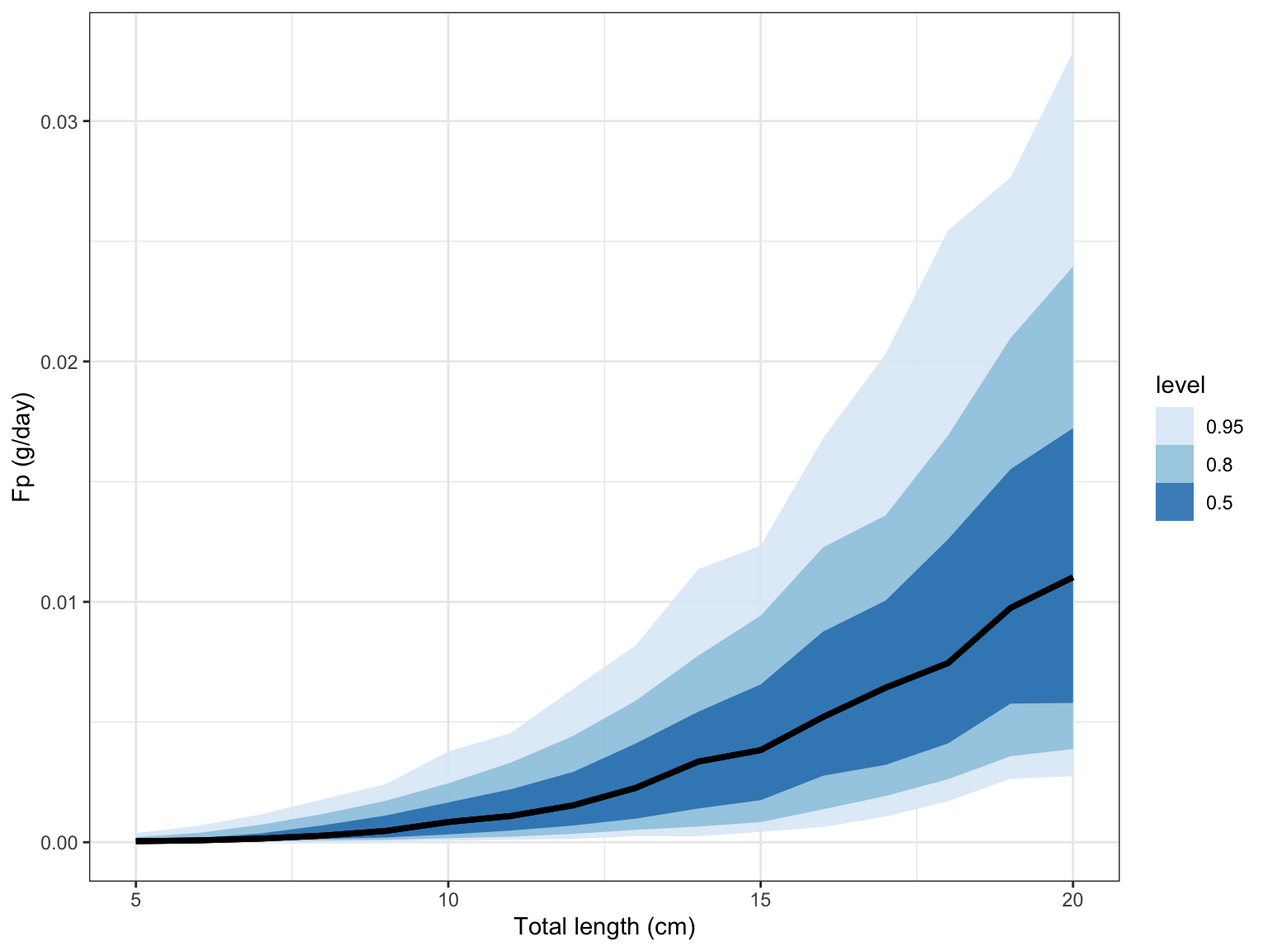
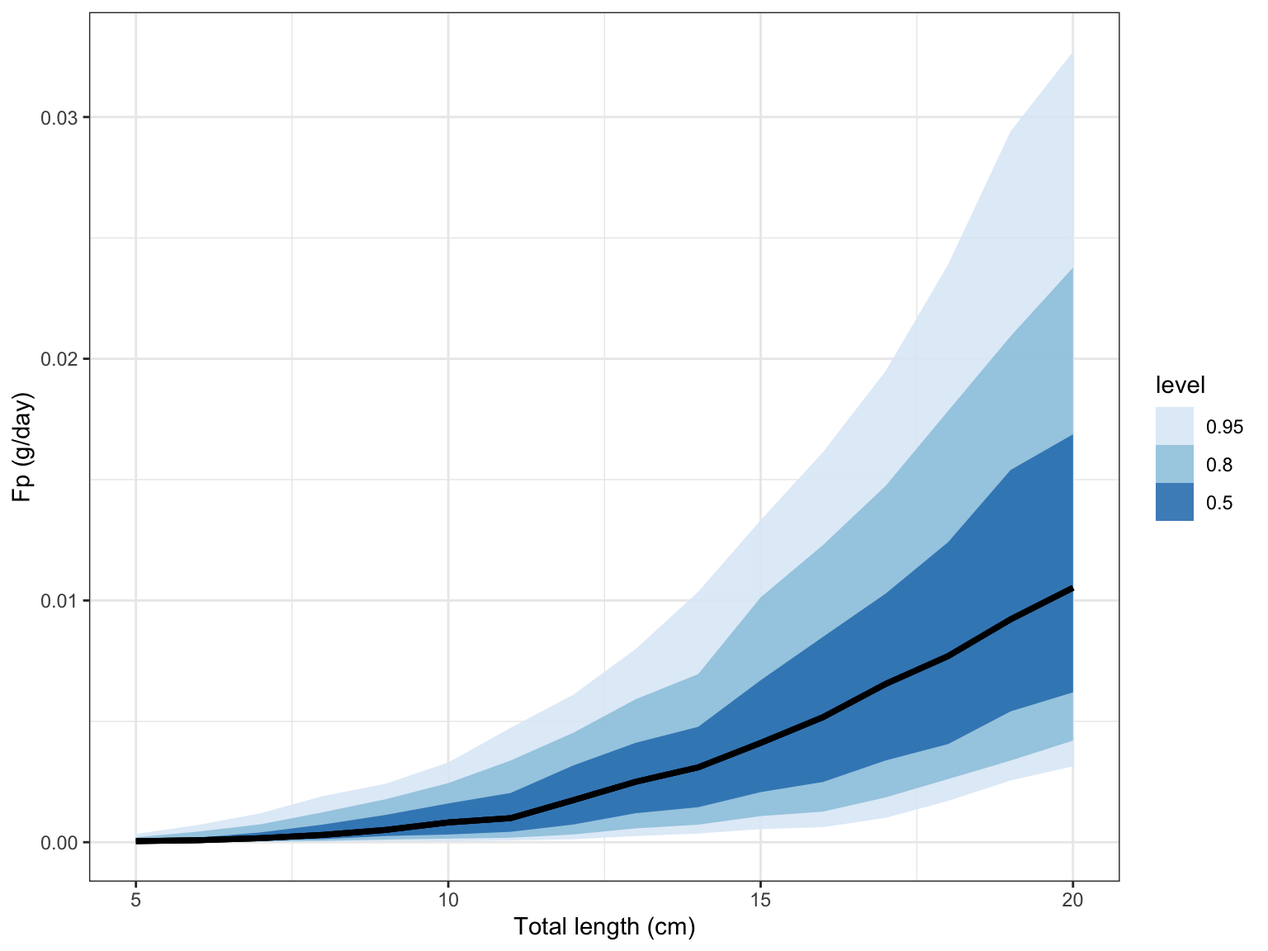
Built site for fishflux: 0.0.1@7be1ca2

diff --git a/articles/intro_to_fishflux.html b/articles/intro_to_fishflux.html
@@ -82,7 +82,7 @@
       <h1 data-toc-skip>Intro to fishflux</h1>
                         <h4 class="author">Nina M. D. Schiettekatte</h4>
             
-            <h4 class="date">2020-06-29</h4>
+            <h4 class="date">2020-06-30</h4>
       
       <small class="dont-index">Source: <a href="https://github.com/nschiett/fishflux/blob/master/vignettes/intro_to_fishflux.Rmd"><code>vignettes/intro_to_fishflux.Rmd</code></a></small>
       <div class="hidden name"><code>intro_to_fishflux.Rmd</code></div>
@@ -411,7 +411,7 @@ Elemental stoichiometry of diet
 <span class="co">#&gt;            species    t0 Linf     k     asp troph   lwa_m      lwa_sd lwb_m</span>
 <span class="co">#&gt; 1 Zebrasoma scopas -0.49 13.3 0.425 2.02091     2 0.02455 0.002627551  2.98</span>
 <span class="co">#&gt;      lwb_sd     mdw_m        f0_m        f0_sd alpha_m   alpha_sd</span>
-<span class="co">#&gt; 1 0.0255102 0.2504833 0.001517989 3.140677e-10    0.77 0.05286288</span>
+<span class="co">#&gt; 1 0.0255102 0.2504833 0.001517989 3.354668e-10    0.77 0.05286288</span>
 </pre></div>
 
 <p>All other parameters have to be provided by the user. For more information on how to acquire these parameters, take a look at (“this paper” add reference to methods paper).</p>
@@ -432,56 +432,56 @@ Elemental stoichiometry of diet
 <div class="sourceCode" id="cb10"><pre class="downlit">
 <span class="kw">fishflux</span>::<span class="fu"><a href="../reference/extract.html">extract</a></span>(<span class="kw">model</span>, <span class="fu"><a href="https://rdrr.io/r/base/c.html">c</a></span>(<span class="st">"Fn"</span>,<span class="st">"Fp"</span>))
 <span class="co">#&gt;    TL      Fn_mean    Fn_median        Fn_sd      Fn_2.5%    Fn_97.5%</span>
-<span class="co">#&gt; 1   5 0.0008586527 0.0008093855 0.0003957789 0.0002520632 0.001744605</span>
-<span class="co">#&gt; 2   6 0.0012936976 0.0012260145 0.0006045254 0.0003204334 0.002651616</span>
-<span class="co">#&gt; 3   7 0.0018687635 0.0017555176 0.0008831807 0.0004508196 0.003878516</span>
-<span class="co">#&gt; 4   8 0.0024862333 0.0022416429 0.0012266932 0.0005926827 0.005225779</span>
-<span class="co">#&gt; 5   9 0.0033452911 0.0030416284 0.0016568626 0.0009411860 0.007094310</span>
-<span class="co">#&gt; 6  10 0.0046037842 0.0041840842 0.0024880342 0.0011257021 0.011053858</span>
-<span class="co">#&gt; 7  11 0.0056588005 0.0048897570 0.0032234506 0.0013884030 0.013137325</span>
-<span class="co">#&gt; 8  12 0.0069331525 0.0060804579 0.0041527314 0.0016101754 0.017289560</span>
-<span class="co">#&gt; 9  13 0.0089393030 0.0079089833 0.0057658943 0.0013588169 0.022647608</span>
-<span class="co">#&gt; 10 14 0.0115946392 0.0103228784 0.0073644004 0.0016212968 0.029892933</span>
-<span class="co">#&gt; 11 15 0.0130959381 0.0117027107 0.0082845762 0.0025182443 0.032087359</span>
-<span class="co">#&gt; 12 16 0.0171097388 0.0149261703 0.0109178909 0.0030723634 0.042837954</span>
-<span class="co">#&gt; 13 17 0.0194643016 0.0172720203 0.0128054698 0.0037103942 0.052467798</span>
-<span class="co">#&gt; 14 18 0.0232282368 0.0195007529 0.0157658356 0.0051293467 0.063116080</span>
-<span class="co">#&gt; 15 19 0.0285082616 0.0247662637 0.0174214532 0.0066437204 0.068252871</span>
-<span class="co">#&gt; 16 20 0.0317043357 0.0277160130 0.0207875970 0.0071413541 0.082881025</span>
+<span class="co">#&gt; 1   5 0.0008934123 0.0008562569 0.0004373110 0.0001925697 0.001879021</span>
+<span class="co">#&gt; 2   6 0.0012960573 0.0012171678 0.0006066701 0.0003591948 0.002709354</span>
+<span class="co">#&gt; 3   7 0.0018519135 0.0017601635 0.0008861854 0.0004191072 0.003877703</span>
+<span class="co">#&gt; 4   8 0.0026167697 0.0024522324 0.0012629534 0.0007365773 0.005631344</span>
+<span class="co">#&gt; 5   9 0.0033658257 0.0029902521 0.0016833614 0.0009232591 0.007494898</span>
+<span class="co">#&gt; 6  10 0.0044517986 0.0040993209 0.0022754809 0.0011793277 0.009976794</span>
+<span class="co">#&gt; 7  11 0.0054826470 0.0047811586 0.0030896539 0.0012482407 0.013251244</span>
+<span class="co">#&gt; 8  12 0.0074136915 0.0064343480 0.0041512799 0.0019208705 0.016831653</span>
+<span class="co">#&gt; 9  13 0.0091276691 0.0081243632 0.0053644421 0.0020549299 0.022353508</span>
+<span class="co">#&gt; 10 14 0.0107490621 0.0095136696 0.0065475269 0.0024891701 0.027066248</span>
+<span class="co">#&gt; 11 15 0.0137423316 0.0118213548 0.0085838659 0.0029378106 0.034126092</span>
+<span class="co">#&gt; 12 16 0.0164927887 0.0140755506 0.0107322414 0.0026621793 0.041996480</span>
+<span class="co">#&gt; 13 17 0.0199511426 0.0176978101 0.0128276262 0.0035045117 0.049643058</span>
+<span class="co">#&gt; 14 18 0.0234228145 0.0201611079 0.0155073586 0.0051791077 0.060904336</span>
+<span class="co">#&gt; 15 19 0.0276894226 0.0230786464 0.0180220551 0.0062480545 0.072005751</span>
+<span class="co">#&gt; 16 20 0.0316776334 0.0270522813 0.0209769457 0.0080240501 0.078937725</span>
 <span class="co">#&gt;          Fn_25%      Fn_75%      Fp_mean    Fp_median        Fp_sd      Fp_2.5%</span>
-<span class="co">#&gt; 1  0.0005617763 0.001082988 7.985235e-05 4.151861e-05 0.0000998671 3.505317e-06</span>
-<span class="co">#&gt; 2  0.0008641242 0.001606701 1.473972e-04 7.754849e-05 0.0001745575 4.036777e-06</span>
-<span class="co">#&gt; 3  0.0012522607 0.002372336 2.817223e-04 1.520503e-04 0.0003184647 6.874997e-06</span>
-<span class="co">#&gt; 4  0.0016883645 0.003149538 4.872610e-04 2.758423e-04 0.0004907718 2.977650e-05</span>
-<span class="co">#&gt; 5  0.0020579564 0.004395476 7.319562e-04 4.706272e-04 0.0006926637 4.095726e-05</span>
-<span class="co">#&gt; 6  0.0028380792 0.005808638 1.130234e-03 8.414204e-04 0.0010074100 6.664717e-05</span>
-<span class="co">#&gt; 7  0.0032603808 0.007301402 1.499953e-03 1.091785e-03 0.0013005555 1.020162e-04</span>
-<span class="co">#&gt; 8  0.0038822114 0.008985446 2.003024e-03 1.535890e-03 0.0016958664 1.371406e-04</span>
-<span class="co">#&gt; 9  0.0045200360 0.011912889 2.824139e-03 2.260982e-03 0.0023182125 2.542141e-04</span>
-<span class="co">#&gt; 10 0.0057996777 0.015781621 3.858254e-03 3.352654e-03 0.0030066937 2.418876e-04</span>
-<span class="co">#&gt; 11 0.0061403276 0.018154267 4.551358e-03 3.831049e-03 0.0033330994 4.323192e-04</span>
-<span class="co">#&gt; 12 0.0084753936 0.023269703 6.202595e-03 5.209700e-03 0.0043499073 6.335925e-04</span>
-<span class="co">#&gt; 13 0.0094405071 0.026454470 7.316796e-03 6.428553e-03 0.0051493027 1.068191e-03</span>
-<span class="co">#&gt; 14 0.0110795298 0.032170707 9.017564e-03 7.454328e-03 0.0063556862 1.705746e-03</span>
-<span class="co">#&gt; 15 0.0145608757 0.040003221 1.132870e-02 9.747484e-03 0.0069487610 2.640174e-03</span>
-<span class="co">#&gt; 16 0.0146456252 0.042640060 1.264117e-02 1.102178e-02 0.0083140199 2.746224e-03</span>
+<span class="co">#&gt; 1  0.0005902445 0.001127855 7.796244e-05 4.384840e-05 9.670562e-05 2.713973e-06</span>
+<span class="co">#&gt; 2  0.0008533772 0.001654163 1.621819e-04 8.295395e-05 1.937797e-04 4.905981e-06</span>
+<span class="co">#&gt; 3  0.0012362110 0.002321096 2.994331e-04 1.679531e-04 3.338841e-04 9.420973e-06</span>
+<span class="co">#&gt; 4  0.0016844639 0.003298968 5.062614e-04 3.043914e-04 5.327472e-04 1.601938e-05</span>
+<span class="co">#&gt; 5  0.0021464100 0.004313393 7.584118e-04 5.094001e-04 6.619741e-04 4.439386e-05</span>
+<span class="co">#&gt; 6  0.0027738895 0.005786325 1.076210e-03 8.184038e-04 9.494519e-04 3.490917e-05</span>
+<span class="co">#&gt; 7  0.0032929819 0.006952912 1.435628e-03 9.961675e-04 1.286142e-03 7.190693e-05</span>
+<span class="co">#&gt; 8  0.0043039468 0.009771602 2.153540e-03 1.738365e-03 1.752029e-03 1.229290e-04</span>
+<span class="co">#&gt; 9  0.0049584458 0.012100645 2.899057e-03 2.500498e-03 2.157390e-03 2.531093e-04</span>
+<span class="co">#&gt; 10 0.0056768766 0.013879944 3.523642e-03 3.096804e-03 2.616220e-03 3.587462e-04</span>
+<span class="co">#&gt; 11 0.0072764829 0.018096851 4.795223e-03 4.107423e-03 3.501305e-03 5.426210e-04</span>
+<span class="co">#&gt; 12 0.0079727443 0.022819191 6.018131e-03 5.175148e-03 4.306485e-03 6.216212e-04</span>
+<span class="co">#&gt; 13 0.0096733353 0.027500236 7.487339e-03 6.547116e-03 5.121641e-03 1.007923e-03</span>
+<span class="co">#&gt; 14 0.0108883490 0.032186973 9.071936e-03 7.698647e-03 6.203646e-03 1.708794e-03</span>
+<span class="co">#&gt; 15 0.0137001284 0.038949389 1.101272e-02 9.218337e-03 7.151852e-03 2.553359e-03</span>
+<span class="co">#&gt; 16 0.0155035216 0.042532833 1.259611e-02 1.052739e-02 8.342135e-03 3.140334e-03</span>
 <span class="co">#&gt;        Fp_97.5%       Fp_25%       Fp_75%</span>
-<span class="co">#&gt; 1  0.0003841081 2.189583e-05 9.007472e-05</span>
-<span class="co">#&gt; 2  0.0006845677 3.639260e-05 1.789943e-04</span>
-<span class="co">#&gt; 3  0.0011583811 7.342115e-05 3.699302e-04</span>
-<span class="co">#&gt; 4  0.0017921577 1.404187e-04 7.066328e-04</span>
-<span class="co">#&gt; 5  0.0024176695 1.985901e-04 1.111649e-03</span>
-<span class="co">#&gt; 6  0.0037746752 3.241167e-04 1.656259e-03</span>
-<span class="co">#&gt; 7  0.0045493136 4.848830e-04 2.202410e-03</span>
-<span class="co">#&gt; 8  0.0063839739 6.945888e-04 2.924549e-03</span>
-<span class="co">#&gt; 9  0.0081893725 9.820492e-04 4.106502e-03</span>
-<span class="co">#&gt; 10 0.0113574736 1.402340e-03 5.427196e-03</span>
-<span class="co">#&gt; 11 0.0123343270 1.748855e-03 6.563997e-03</span>
-<span class="co">#&gt; 12 0.0168042440 2.766156e-03 8.762908e-03</span>
-<span class="co">#&gt; 13 0.0203080353 3.219755e-03 1.005128e-02</span>
-<span class="co">#&gt; 14 0.0254602983 4.112121e-03 1.260305e-02</span>
-<span class="co">#&gt; 15 0.0276492444 5.766555e-03 1.551836e-02</span>
-<span class="co">#&gt; 16 0.0328892230 5.795160e-03 1.722402e-02</span>
+<span class="co">#&gt; 1  0.0003426652 2.214076e-05 8.433694e-05</span>
+<span class="co">#&gt; 2  0.0007170857 3.837654e-05 1.901406e-04</span>
+<span class="co">#&gt; 3  0.0012016161 7.943306e-05 4.065546e-04</span>
+<span class="co">#&gt; 4  0.0019121680 1.304030e-04 7.339985e-04</span>
+<span class="co">#&gt; 5  0.0024222889 2.574956e-04 1.130818e-03</span>
+<span class="co">#&gt; 6  0.0032997153 3.179541e-04 1.604703e-03</span>
+<span class="co">#&gt; 7  0.0047366281 4.315092e-04 2.039072e-03</span>
+<span class="co">#&gt; 8  0.0061032745 7.318244e-04 3.175363e-03</span>
+<span class="co">#&gt; 9  0.0079922667 1.199694e-03 4.112011e-03</span>
+<span class="co">#&gt; 10 0.0103617423 1.447720e-03 4.773537e-03</span>
+<span class="co">#&gt; 11 0.0133245031 2.072940e-03 6.700966e-03</span>
+<span class="co">#&gt; 12 0.0161482427 2.493210e-03 8.499086e-03</span>
+<span class="co">#&gt; 13 0.0194927496 3.382154e-03 1.028416e-02</span>
+<span class="co">#&gt; 14 0.0238931014 4.059160e-03 1.241096e-02</span>
+<span class="co">#&gt; 15 0.0294079206 5.411765e-03 1.539640e-02</span>
+<span class="co">#&gt; 16 0.0327071181 6.200142e-03 1.687552e-02</span>
 </pre></div>
 
 </div>
@@ -503,46 +503,46 @@ Elemental stoichiometry of diet
 #&gt; 6  10        c    0.000
 #&gt; 7  11        c    0.000
 #&gt; 8  12        c    0.000
-#&gt; 9  13        c    0.004
-#&gt; 10 14        c    0.006
-#&gt; 11 15        c    0.024
-#&gt; 12 16        c    0.040
-#&gt; 13 17        c    0.080
-#&gt; 14 18        c    0.108
+#&gt; 9  13        c    0.002
+#&gt; 10 14        c    0.012
+#&gt; 11 15        c    0.008
+#&gt; 12 16        c    0.026
+#&gt; 13 17        c    0.082
+#&gt; 14 18        c    0.096
 #&gt; 15 19        c    0.140
-#&gt; 16 20        c    0.162
-#&gt; 17  5        n    0.334
-#&gt; 18  6        n    0.386
-#&gt; 19  7        n    0.482
-#&gt; 20  8        n    0.572
-#&gt; 21  9        n    0.636
-#&gt; 22 10        n    0.678
-#&gt; 23 11        n    0.714
-#&gt; 24 12        n    0.748
-#&gt; 25 13        n    0.802
-#&gt; 26 14        n    0.826
-#&gt; 27 15        n    0.814
-#&gt; 28 16        n    0.876
-#&gt; 29 17        n    0.864
-#&gt; 30 18        n    0.850
-#&gt; 31 19        n    0.842
-#&gt; 32 20        n    0.808
-#&gt; 33  5        p    0.666
-#&gt; 34  6        p    0.614
-#&gt; 35  7        p    0.518
-#&gt; 36  8        p    0.428
-#&gt; 37  9        p    0.364
-#&gt; 38 10        p    0.322
-#&gt; 39 11        p    0.286
-#&gt; 40 12        p    0.252
-#&gt; 41 13        p    0.194
-#&gt; 42 14        p    0.168
-#&gt; 43 15        p    0.162
-#&gt; 44 16        p    0.084
-#&gt; 45 17        p    0.056
-#&gt; 46 18        p    0.042
-#&gt; 47 19        p    0.018
-#&gt; 48 20        p    0.030
+#&gt; 16 20        c    0.134
+#&gt; 17  5        n    0.328
+#&gt; 18  6        n    0.412
+#&gt; 19  7        n    0.494
+#&gt; 20  8        n    0.548
+#&gt; 21  9        n    0.676
+#&gt; 22 10        n    0.704
+#&gt; 23 11        n    0.684
+#&gt; 24 12        n    0.760
+#&gt; 25 13        n    0.840
+#&gt; 26 14        n    0.836
+#&gt; 27 15        n    0.862
+#&gt; 28 16        n    0.866
+#&gt; 29 17        n    0.850
+#&gt; 30 18        n    0.826
+#&gt; 31 19        n    0.846
+#&gt; 32 20        n    0.856
+#&gt; 33  5        p    0.672
+#&gt; 34  6        p    0.588
+#&gt; 35  7        p    0.506
+#&gt; 36  8        p    0.452
+#&gt; 37  9        p    0.324
+#&gt; 38 10        p    0.296
+#&gt; 39 11        p    0.316
+#&gt; 40 12        p    0.240
+#&gt; 41 13        p    0.158
+#&gt; 42 14        p    0.152
+#&gt; 43 15        p    0.130
+#&gt; 44 16        p    0.108
+#&gt; 45 17        p    0.068
+#&gt; 46 18        p    0.078
+#&gt; 47 19        p    0.014
+#&gt; 48 20        p    0.010
 ## Plot one variable:
 fishflux::plot_cnp(model,  y = "Fp", x = "tl", probs = c(0.5, 0.8, 0.95))</a></code></pre>
 <p><img src="intro_to_fishflux_files/figure-html/unnamed-chunk-9-2.png" width="768"></p>
@@ -562,11 +562,11 @@ fishflux::plot_cnp(model,  y = "Fp", x = "tl", probs = c(0.5, 0.8, 0.95))</a></c
 </pre></div>
 <p><img src="intro_to_fishflux_files/figure-html/unnamed-chunk-10-1.png" width="768"></p>
 <pre><code>#&gt;              Fn_CI        Fp_CI        Ic_CI
-#&gt; Dn_sd 1.996804e-10 0.0002770149 9.893390e-03
-#&gt; Dp_sd 1.953877e-10 0.0007786850 2.017322e-09
-#&gt; Qn_sd 1.855470e-03 0.0007241314 2.586183e-02
-#&gt; Qp_sd 1.944119e-10 0.0007431346 2.005237e-09
-#&gt; k_sd  2.027706e-10 0.0001078250 1.036779e-02</code></pre>
+#&gt; Dn_sd 1.995577e-10 0.0002542975 9.082053e-03
+#&gt; Dp_sd 2.137556e-10 0.0007169301 2.214147e-09
+#&gt; Qn_sd 1.954044e-03 0.0007626019 2.723578e-02
+#&gt; Qp_sd 1.897758e-10 0.0007015221 1.990517e-09
+#&gt; k_sd  1.947399e-10 0.0001092208 1.050200e-02</code></pre>
 
 </div>
 </div>

diff --git a/reference/extract.html b/reference/extract.html
@@ -174,19 +174,19 @@
     <h2 class="hasAnchor" id="examples"><a class="anchor" href="#examples"></a>Examples</h2>
     <pre class="examples"><div class='input'><span class='kw'>model</span> <span class='op'>&lt;-</span> <span class='fu'><a href='https://rdrr.io/pkg/fishflux/man/cnp_model_mcmc.html'>cnp_model_mcmc</a></span>(TL = <span class='fl'>5</span><span class='op'>:</span><span class='fl'>10</span>, param = <span class='fu'><a href='https://rdrr.io/r/base/list.html'>list</a></span>(Qc_m = <span class='fl'>40</span>, Qn_m = <span class='fl'>10</span>, Qp_m = <span class='fl'>4</span>))
 <span class='fu'><a href='https://rdrr.io/pkg/fishflux/man/extract.html'>extract</a></span>(<span class='kw'>model</span>, <span class='fu'><a href='https://rdrr.io/r/base/c.html'>c</a></span>(<span class='st'>"Fn"</span>,<span class='st'>"Fp"</span>))</div><div class='output co'>#&gt;   TL      Fn_mean    Fn_median        Fn_sd      Fn_2.5%     Fn_97.5%
-#&gt; 1  5 0.0006047886 0.0006047886 5.825543e-12 0.0006047886 0.0006047886
-#&gt; 2  6 0.0010610097 0.0010610097 1.074989e-11 0.0010610097 0.0010610097
-#&gt; 3  7 0.0017065393 0.0017065393 1.688624e-11 0.0017065393 0.0017065394
-#&gt; 4  8 0.0025757605 0.0025757605 2.602209e-11 0.0025757604 0.0025757605
-#&gt; 5  9 0.0037034689 0.0037034689 3.747237e-11 0.0037034688 0.0037034690
-#&gt; 6 10 0.0051248251 0.0051248251 5.199067e-11 0.0051248250 0.0051248252
+#&gt; 1  5 0.0006047886 0.0006047886 6.122367e-12 0.0006047886 0.0006047886
+#&gt; 2  6 0.0010610097 0.0010610097 1.083660e-11 0.0010610097 0.0010610097
+#&gt; 3  7 0.0017065393 0.0017065393 1.633157e-11 0.0017065393 0.0017065394
+#&gt; 4  8 0.0025757605 0.0025757605 2.444824e-11 0.0025757604 0.0025757605
+#&gt; 5  9 0.0037034689 0.0037034689 3.691209e-11 0.0037034688 0.0037034690
+#&gt; 6 10 0.0051248251 0.0051248251 5.411879e-11 0.0051248250 0.0051248252
 #&gt;         Fn_25%       Fn_75%      Fp_mean    Fp_median        Fp_sd      Fp_2.5%
-#&gt; 1 0.0006047886 0.0006047886 0.0001097965 0.0001097965 1.692095e-12 0.0001097965
-#&gt; 2 0.0010610097 0.0010610097 0.0002186548 0.0002186548 3.131841e-12 0.0002186548
-#&gt; 3 0.0017065393 0.0017065393 0.0003815567 0.0003815567 4.925843e-12 0.0003815567
-#&gt; 4 0.0025757605 0.0025757605 0.0006096826 0.0006096826 7.566233e-12 0.0006096826
-#&gt; 5 0.0037034689 0.0037034689 0.0009143614 0.0009143614 1.093609e-11 0.0009143614
-#&gt; 6 0.0051248250 0.0051248251 0.0013070515 0.0013070515 1.509215e-11 0.0013070515
+#&gt; 1 0.0006047886 0.0006047886 0.0001097965 0.0001097965 1.786981e-12 0.0001097965
+#&gt; 2 0.0010610097 0.0010610097 0.0002186548 0.0002186548 3.166296e-12 0.0002186548
+#&gt; 3 0.0017065393 0.0017065393 0.0003815567 0.0003815567 4.757269e-12 0.0003815567
+#&gt; 4 0.0025757605 0.0025757605 0.0006096826 0.0006096826 7.128863e-12 0.0006096826
+#&gt; 5 0.0037034689 0.0037034689 0.0009143614 0.0009143614 1.077163e-11 0.0009143614
+#&gt; 6 0.0051248250 0.0051248251 0.0013070515 0.0013070515 1.581249e-11 0.0013070515
 #&gt;       Fp_97.5%       Fp_25%       Fp_75%
 #&gt; 1 0.0001097965 0.0001097965 0.0001097965
 #&gt; 2 0.0002186548 0.0002186548 0.0002186548

diff --git a/reference/aspect_ratio.html b/reference/aspect_ratio.html
@@ -146,15 +146,11 @@ and the level at which the aspect ratio was found (species or genus).</p>
 
 
     <h2 class="hasAnchor" id="examples"><a class="anchor" href="#examples"></a>Examples</h2>
-    <pre class="examples"><div class='input'><span class='fu'><a href='https://rdrr.io/r/base/library.html'>library</a></span>(<span class='kw'><a href='https://nschiett.github.io/fishflux'>fishflux</a></span>)
-<span class='fu'><a href='https://rdrr.io/r/base/library.html'>library</a></span>(<span class='kw'><a href='http://had.co.nz/plyr'>plyr</a></span>)
-<span class='fu'><a href='https://rdrr.io/pkg/fishflux/man/aspect_ratio.html'>aspect_ratio</a></span>(<span class='st'>"Lutjanus griseus"</span>)</div><div class='output co'>#&gt; <span class='warning'>Warning: `data_frame()` is deprecated as of tibble 1.1.0.</span>
-#&gt; <span class='warning'>Please use `tibble()` instead.</span>
-#&gt; <span class='warning'><span style='color: #555555;'>This warning is displayed once every 8 hours.</span><span></span>
-#&gt; <span class='warning'></span><span style='color: #555555;'>Call `lifecycle::last_warnings()` to see where this warning was generated.</span><span></span></div><div class='output co'>#&gt;            species aspect_ratio   level
-#&gt; 1 Lutjanus griseus      1.77717 species</div><div class='input'><span class='fu'><a href='https://rdrr.io/pkg/plyr/man/ldply.html'>ldply</a></span>(<span class='fu'><a href='https://rdrr.io/r/base/lapply.html'>lapply</a></span>(<span class='fu'><a href='https://rdrr.io/r/base/c.html'>c</a></span>(<span class='st'>"Chlorurus spilurus"</span>,<span class='st'>"Zebrasoma scopas"</span>), <span class='kw'>aspect_ratio</span>))</div><div class='output co'>#&gt;              species aspect_ratio   level
-#&gt; 1 Chlorurus spilurus          NaN species
-#&gt; 2   Zebrasoma scopas      2.02091 species</div><div class='input'></div></span></pre>
+    <pre class="examples"><div class='input'><span class='co'>#library(fishflux)</span>
+<span class='co'>#library(plyr)</span>
+<span class='co'>#aspect_ratio("Lutjanus griseus")</span>
+<span class='co'>#ldply(lapply(c("Chlorurus spilurus","Zebrasoma scopas"), aspect_ratio))</span>
+</div></pre>
   </div>
   <div class="col-md-3 hidden-xs hidden-sm" id="pkgdown-sidebar">
     <nav id="toc" data-toggle="toc" class="sticky-top">

diff --git a/reference/growth_params.html b/reference/growth_params.html
@@ -153,7 +153,10 @@ Nevertheless, we strongly recommend to check the source and only use otolith bas
 
     <h2 class="hasAnchor" id="examples"><a class="anchor" href="#examples"></a>Examples</h2>
     <pre class="examples"><div class='input'><span class='fu'><a href='https://rdrr.io/r/base/library.html'>library</a></span>(<span class='kw'><a href='https://nschiett.github.io/fishflux'>fishflux</a></span>)
-<span class='fu'><a href='https://rdrr.io/pkg/fishflux/man/growth_params.html'>growth_params</a></span>(<span class='st'>"Lutjanus griseus"</span>)</div><div class='output co'>#&gt; <span style='color: #555555;'># A tibble: 6 x 7</span><span>
+<span class='fu'><a href='https://rdrr.io/pkg/fishflux/man/growth_params.html'>growth_params</a></span>(<span class='st'>"Lutjanus griseus"</span>)</div><div class='output co'>#&gt; <span class='warning'>Warning: `data_frame()` is deprecated as of tibble 1.1.0.</span>
+#&gt; <span class='warning'>Please use `tibble()` instead.</span>
+#&gt; <span class='warning'><span style='color: #555555;'>This warning is displayed once every 8 hours.</span><span></span>
+#&gt; <span class='warning'></span><span style='color: #555555;'>Call `lifecycle::last_warnings()` to see where this warning was generated.</span><span></span></div><div class='output co'>#&gt; </span><span style='color: #555555;'># A tibble: 6 x 7</span><span>
 #&gt;   species        Locality             k  Linf     t0 method             comments
 #&gt;   </span><span style='color: #555555;font-style: italic;'>&lt;chr&gt;</span><span>          </span><span style='color: #555555;font-style: italic;'>&lt;chr&gt;</span><span>            </span><span style='color: #555555;font-style: italic;'>&lt;dbl&gt;</span><span> </span><span style='color: #555555;font-style: italic;'>&lt;dbl&gt;</span><span>  </span><span style='color: #555555;font-style: italic;'>&lt;dbl&gt;</span><span> </span><span style='color: #555555;font-style: italic;'>&lt;chr&gt;</span><span>              </span><span style='color: #555555;font-style: italic;'>&lt;chr&gt;</span><span>   
 #&gt; </span><span style='color: #555555;'>1</span><span> Lutjanus gris… Southeast Cuba   0.24   51   -</span><span style='color: #BB0000;'>0.62</span><span>  annuli on many ot… </span><span style='color: #BB0000;'>NA</span><span>      

diff --git a/reference/sensitivity.html b/reference/sensitivity.html
@@ -176,9 +176,9 @@ Plots a heatplot with width of the 95<!-- %CI of output predictions. --></p>
     <pre class="examples"><div class='input'><span class='fu'><a href='https://rdrr.io/r/base/library.html'>library</a></span>(<span class='kw'><a href='https://nschiett.github.io/fishflux'>fishflux</a></span>)
 <span class='fu'><a href='https://rdrr.io/pkg/fishflux/man/sensitivity.html'>sensitivity</a></span>(TL = <span class='fl'>10</span>, param = <span class='fu'><a href='https://rdrr.io/r/base/list.html'>list</a></span>(k_sd = <span class='fl'>0.2</span>, Dn_sd = <span class='fl'>0.2</span>, Dc_sd = <span class='fl'>0.1</span>),
             par = <span class='fu'><a href='https://rdrr.io/r/base/c.html'>c</a></span>(<span class='st'>"k_sd"</span>,<span class='st'>"Dn_sd"</span>,<span class='st'>"Dc_sd"</span>), out = <span class='fu'><a href='https://rdrr.io/r/base/c.html'>c</a></span>(<span class='st'>"Ic"</span>, <span class='st'>"In"</span>, <span class='st'>"Ip"</span>, <span class='st'>"Gc"</span>))</div><div class='output co'>#&gt; <span class='message'>Joining, by = "key"</span></div><div class='img'><img src='sensitivity-1.png' alt='' width='700' height='433' /></div><div class='output co'>#&gt;            Ic_CI        In_CI        Ip_CI        Gc_CI
-#&gt; k_sd  0.03126895 3.752274e-03 1.250758e-03 1.200728e-02
-#&gt; Dn_sd 0.21117736 4.620680e-03 8.447094e-03 7.264787e-11
-#&gt; Dc_sd 0.01132913 2.728652e-10 9.111326e-11 6.966433e-11</div><div class='input'></div></pre>
+#&gt; k_sd  0.03171321 3.805585e-03 1.268528e-03 1.217787e-02
+#&gt; Dn_sd 0.23959899 5.295928e-03 9.583959e-03 7.438975e-11
+#&gt; Dc_sd 0.01082326 2.555910e-10 8.536037e-11 7.454039e-11</div><div class='input'></div></pre>
   </div>
   <div class="col-md-3 hidden-xs hidden-sm" id="pkgdown-sidebar">
     <nav id="toc" data-toggle="toc" class="sticky-top">

diff --git a/authors.html b/authors.html
@@ -123,7 +123,7 @@
       <small class="dont-index">Source: <a href='https://github.com/nschiett/fishflux/blob/master/inst/CITATION'><code>inst/CITATION</code></a></small>
     </div>
 
-    <p>Schiettekatte, N.M., Barneche, D.R., Villéger, S., Allgeier, J.E., Burkepile, D.E., Brandl, S.J., Casey, J.M., Mercière, A., Munsterman, K.S., Morat, F. and Parravicini, V. (2020), Nutrient limitation, bioenergetics, and stoichiometry: a new model to predict elemental fluxes mediated by fishes. Funct Ecol. Accepted Author Manuscript. doi:10.1111/1365-2435.13618</p>
+    <p>Schiettekatte, N.M., Barneche, D.R., Villéger, S., Allgeier, J.E., Burkepile, D.E., Brandl, S.J., Casey, J.M., Mercière, A., Munsterman, K.S., Morat, F. and Parravicini, V., Nutrient limitation, bioenergetics, and stoichiometry: a new model to predict elemental fluxes mediated by fishes. Funct Ecol. 2020;00:1-13 https://doi.org/10.1111/1365-2435.13618</p>
     <pre>@Article{,
   title = {Nutrient limitation, bioenergetics, and stoichiometry: a new model to predict elemental fluxes mediated by fishes},
   author = {Schiettekatte N.M.D and Barneche D.R. and Villéger S. and Allgeier J.E. and Burkepile D.E. and Brandl S.J. and Casey J.M. and Mercière A. and Munsterman K.S. and Morat F. and Parravicini V.},

diff --git a/reference/cnp_model_mcmc.html b/reference/cnp_model_mcmc.html
@@ -185,7 +185,8 @@ ro_Dc_Dn, ro_Dc_Dp, ro_Dn_Dp, ro_lwa_lwb, ro_alpha_f0</p></td>
     </tr>
     <tr>
       <th>...</th>
-      <td><p>Additional arguments to <code><a href='https://rdrr.io/pkg/rstan/man/stanmodel-method-sampling.html'>sampling</a></code></p></td>
+      <td><p>Additional arguments to 
+<code><a href='https://rdrr.io/pkg/rstan/man/stanmodel-method-sampling.html'>sampling</a></code></p></td>
     </tr>
     </table>
 
@@ -213,8 +214,8 @@ Qc_m = <span class='fl'>40</span>, Qn_m = <span class='fl'>10</span>, Qp_m = <sp
 #&gt; Chain 1: Iteration: 1000 / 1000 [100%]  (Sampling)
 #&gt; Chain 1: 
 #&gt; Chain 1:  Elapsed Time: 0 seconds (Warm-up)
-#&gt; Chain 1:                0.013512 seconds (Sampling)
-#&gt; Chain 1:                0.013512 seconds (Total)
+#&gt; Chain 1:                0.014137 seconds (Sampling)
+#&gt; Chain 1:                0.014137 seconds (Total)
 #&gt; Chain 1: </div><div class='input'></div></pre>
   </div>
   <div class="col-md-3 hidden-xs hidden-sm" id="pkgdown-sidebar">

diff --git a/reference/limitation.html b/reference/limitation.html
@@ -172,8 +172,8 @@
 #&gt; Chain 1: Iteration: 1000 / 1000 [100%]  (Sampling)
 #&gt; Chain 1: 
 #&gt; Chain 1:  Elapsed Time: 0 seconds (Warm-up)
-#&gt; Chain 1:                0.014082 seconds (Sampling)
-#&gt; Chain 1:                0.014082 seconds (Total)
+#&gt; Chain 1:                0.014318 seconds (Sampling)
+#&gt; Chain 1:                0.014318 seconds (Total)
 #&gt; Chain 1: </div><div class='input'><span class='fu'><a href='https://rdrr.io/pkg/fishflux/man/limitation.html'>limitation</a></span>(<span class='kw'>mod</span>)</div><div class='output co'>#&gt; <span class='message'>geom_path: Each group consists of only one observation. Do you need to adjust</span>
 #&gt; <span class='message'>the group aesthetic?</span></div><div class='img'><img src='limitation-1.png' alt='' width='700' height='433' /></div><div class='output co'>#&gt;   tl nutrient prop_lim
 #&gt; 1  5        c    0.000

diff --git a/reference/metabolism.html b/reference/metabolism.html
@@ -186,8 +186,8 @@ which also includes trophic level as a covariate.</p>
 #&gt; Chain 1: Iteration: 1000 / 1000 [100%]  (Sampling)
 #&gt; Chain 1: 
 #&gt; Chain 1:  Elapsed Time: 0 seconds (Warm-up)
-#&gt; Chain 1:                0.001501 seconds (Sampling)
-#&gt; Chain 1:                0.001501 seconds (Total)
+#&gt; Chain 1:                0.001551 seconds (Sampling)
+#&gt; Chain 1:                0.001551 seconds (Total)
 #&gt; Chain 1: </div><div class='output co'>#&gt;          f0_m       f0_sd   alpha_m  alpha_sd        b0_m        b0_sd
 #&gt; 1 0.004528457 0.002004058 0.4256931 0.1035894 0.001415727 0.0006612888</div><div class='input'></div></pre>
   </div>

diff --git a/reference/model_parameters.html b/reference/model_parameters.html
@@ -177,8 +177,8 @@
 #&gt; Chain 1: Iteration: 1000 / 1000 [100%]  (Sampling)
 #&gt; Chain 1: 
 #&gt; Chain 1:  Elapsed Time: 0 seconds (Warm-up)
-#&gt; Chain 1:                0.001427 seconds (Sampling)
-#&gt; Chain 1:                0.001427 seconds (Total)
+#&gt; Chain 1:                0.001523 seconds (Sampling)
+#&gt; Chain 1:                0.001523 seconds (Total)
 #&gt; Chain 1: </div><div class='output co'>#&gt;            species      t0  Linf     k     asp troph   lwa_m      lwa_sd lwb_m
 #&gt; 1 Scarus psittacus -0.6025 23.05 0.814 1.80877     2 0.01585 0.001760204  3.06
 #&gt;       lwb_sd     mdw_m        f0_m        f0_sd alpha_m   alpha_sd

diff --git a/reference/check_name_fishbase.html b/reference/check_name_fishbase.html
@@ -131,7 +131,7 @@ name_errors) if the provided species name is wrong." />
 <code><a href='https://rdrr.io/pkg/fishflux/man/name_errors.html'>name_errors</a></code>) if the provided species name is wrong.</p>
     </div>
 
-    <pre class="usage"><span class='fu'><a href='https://rdrr.io/pkg/fishflux/man/check_name_fishbase.html'>check_name_fishbase</a></span>(<span class='kw'>sp</span>)</pre>
+    <pre class="usage"><span class='fu'>check_name_fishbase</span>(<span class='kw'>sp</span>)</pre>
 
     <h2 class="hasAnchor" id="arguments"><a class="anchor" href="#arguments"></a>Arguments</h2>
     <table class="ref-arguments">

diff --git a/reference/cnp_mcmc.html b/reference/cnp_mcmc.html
@@ -182,7 +182,8 @@ ro_Dc_Dn, ro_Dc_Dp, ro_Dn_Dp, ro_lwa_lwb, ro_alpha_f0</p></td>
     </tr>
     <tr>
       <th>...</th>
-      <td><p>Additional arguments to <code><a href='https://rdrr.io/pkg/rstan/man/stanmodel-method-sampling.html'>sampling</a></code></p></td>
+      <td><p>Additional arguments to 
+<code><a href='https://rdrr.io/pkg/rstan/man/stanmodel-method-sampling.html'>sampling</a></code></p></td>
     </tr>
     </table>
 
